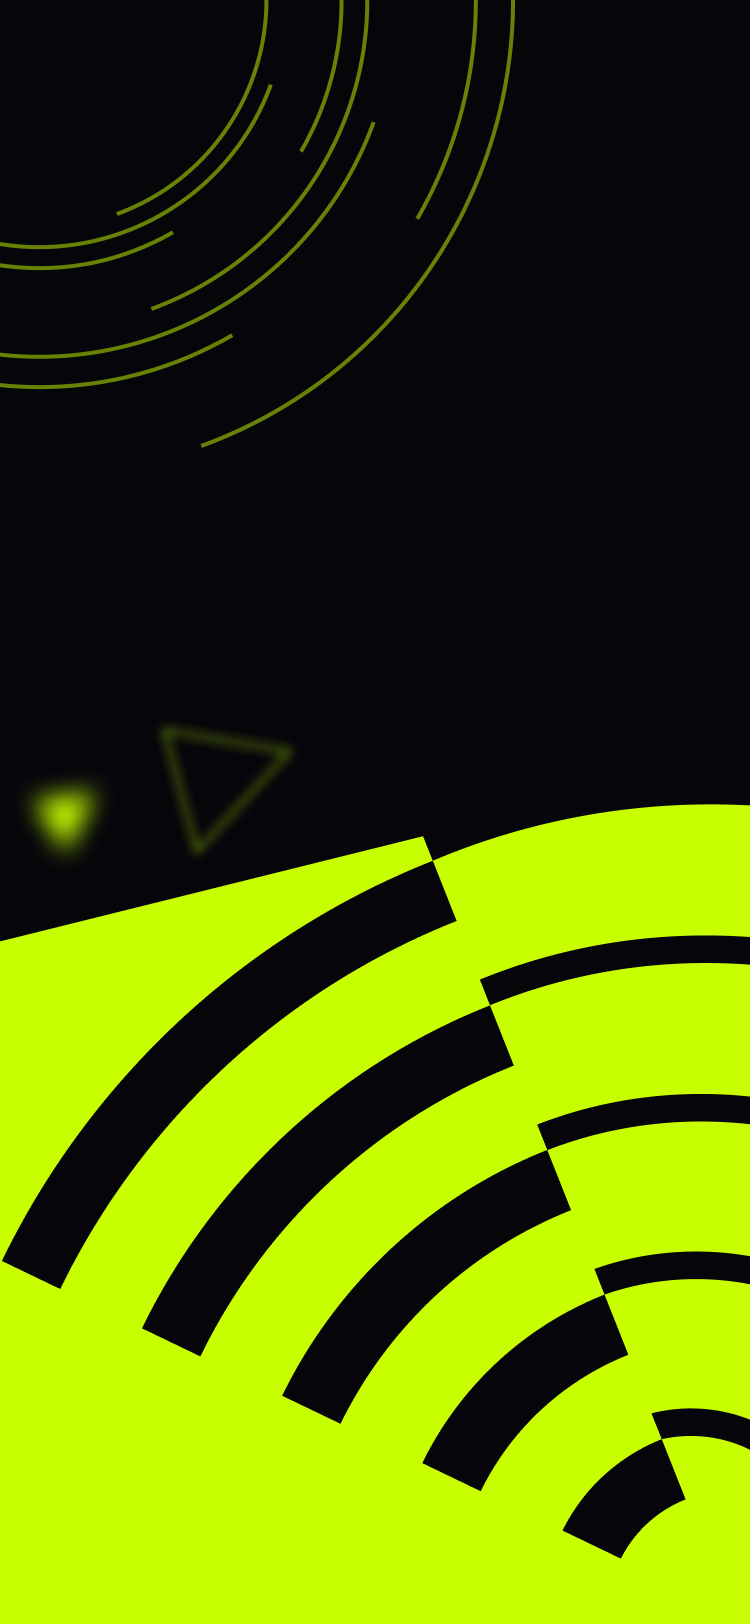
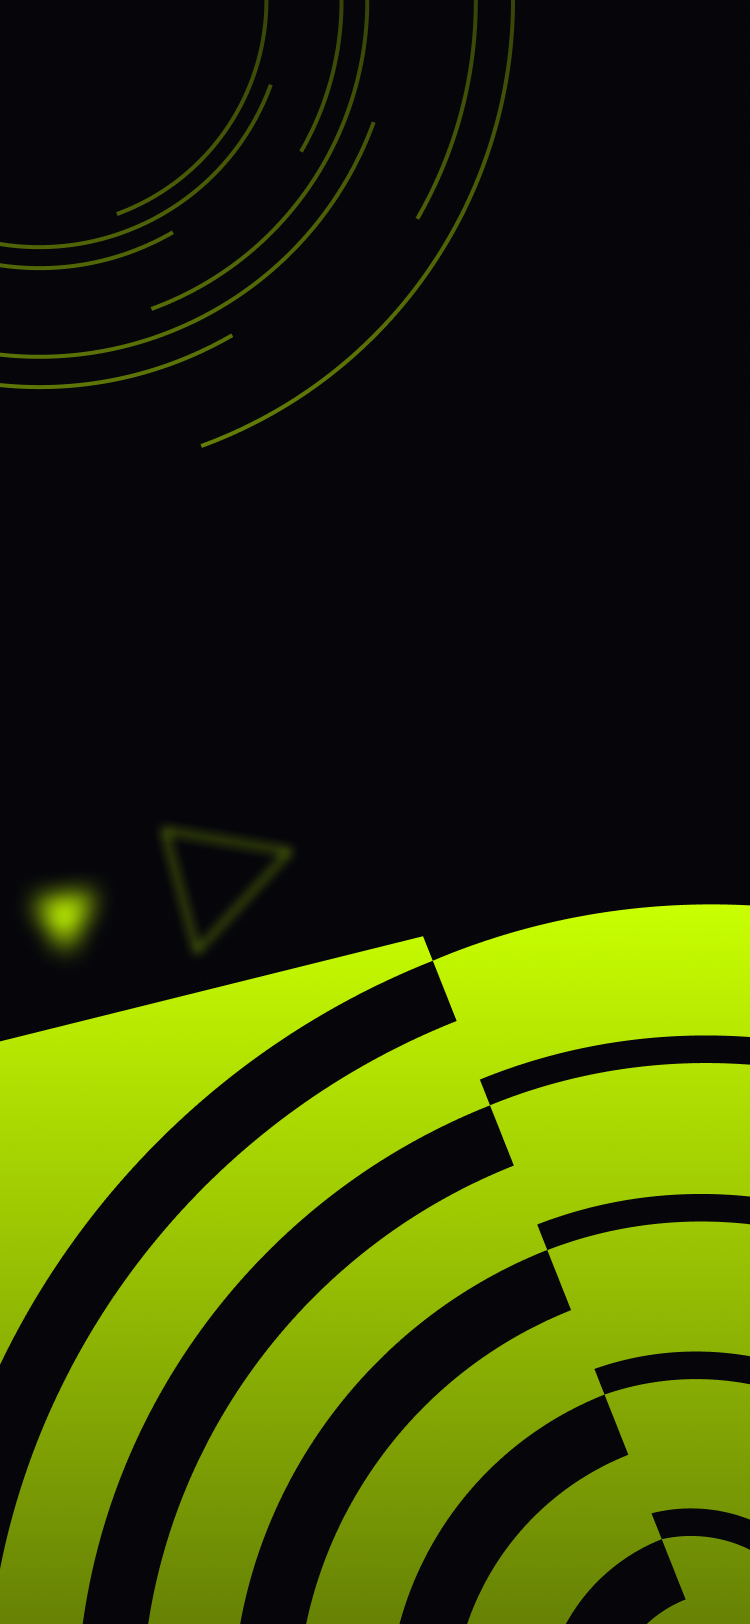
fix: UI onboarding 2 (#1608)

Pull request: fix: UI onboarding 2

diff --git a/src/app/onboarding/components/_Content.tsx b/src/app/onboarding/components/_Content.tsx
@@ -79,20 +79,20 @@ export default function Index() {
           </Button.Large>
           */}
           <Link href="/sign-in">
-            <Button.Large variant="secondary" className="w-[156px]">
+            <Button.Large variant="secondary" className="md:w-[156px]">
               Sign In
             </Button.Large>
           </Link>
         </div>
         <div className="fixed bottom-4">
           <SocialLinks
-            colorIcon="#000000"
+            colorIcon="#C8FF00"
             classNameIcon="opacity-100 hover:opacity-90"
             className="sm:hidden inline-flex"
           />
           <Typography.Body
             variant="small"
-            className="text-[13.5px] text-black lg:text-white lg:text-opacity-50 font-normal"
+            className="text-[13.5px] text-[#C8FF00] md:text-white md:text-opacity-50 font-normal"
           >
             Synonym Software Ltd. ©{currentYear}.
           </Typography.Body>